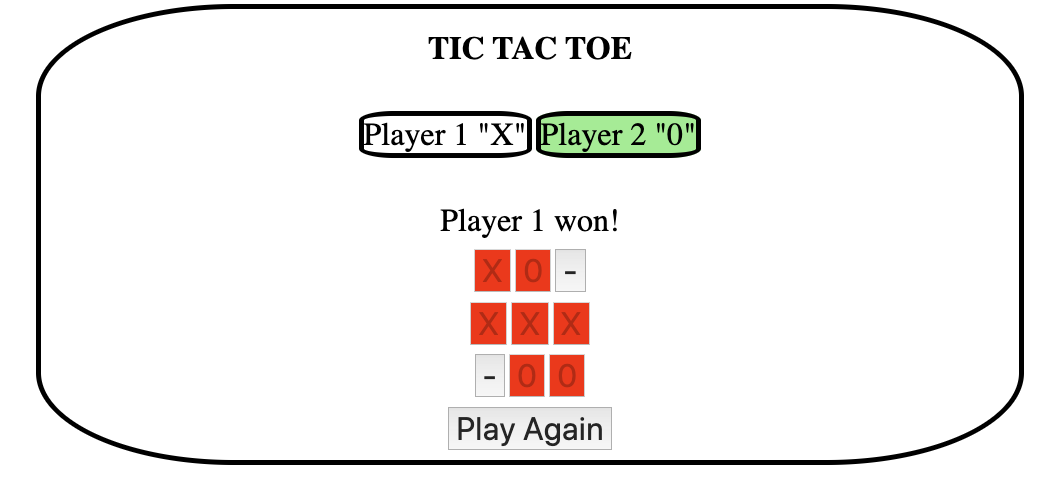
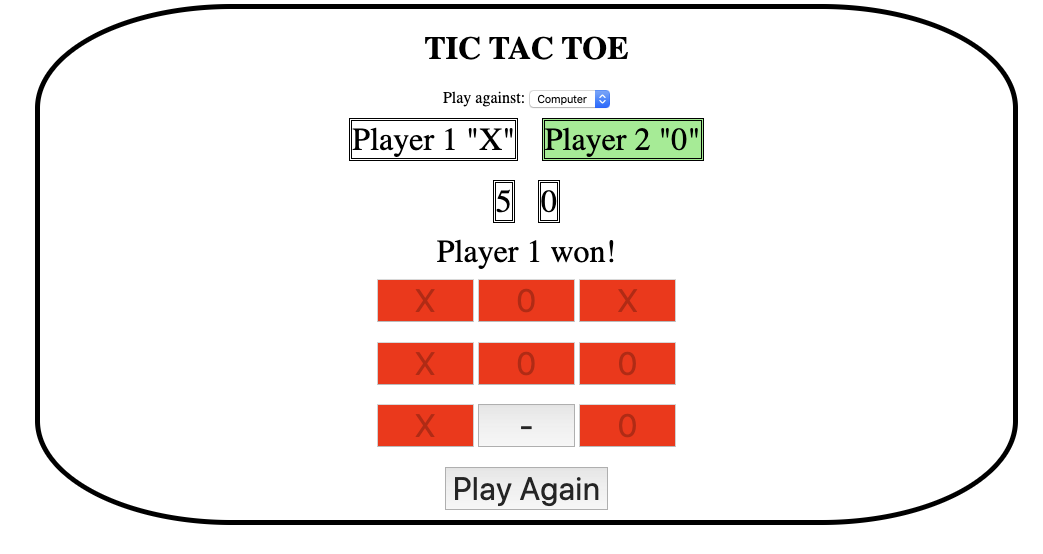
now added an artifical computer player also

diff --git a/tictactoe.js b/tictactoe.js
@@ -4,16 +4,18 @@ var gameGridArray = ["-","-","-","-","-","-","-","-","-"];
 var drawMessage = "It was a draw!";
 var playerOneWinMessage = "Player 1 won!";
 var playerTwoWinMessage = "Player 2 won!";
-counter = 0;
-p1ScoreCounter = 0;
-p2ScoreCounter = 0;
+
+var p1ScoreCounter = 0;
+var p2ScoreCounter = 0;
+var computerPlayer = false;
+
+var whichOpponent = ['Human', "Computer"];
 
 // string to compare who the winner is
 var answerX = 'XXX';
 var answer0 = '000';
 
 var arrayInsertIdxPosition = null;
-
 
 // 2. obtain all elements in the html page
 //var boxElements = document.querySelectorAll("div");
@@ -27,14 +29,36 @@ var boxElements = document.querySelectorAll('.button');
 var winningApplause = document.querySelector(".applause"); 
 var player1ScoreCounter = document.querySelector(".player1ScoreCounter")
 var player2ScoreCounter = document.querySelector(".player2ScoreCounter")
+//  used for either selecting a human or computer player
+var chooseOpponentDropDownList = document.querySelector(".chooseOpponent")
+var humanPlayer = document.querySelector(".humanPlayer")
+var computerPlayer = document.querySelector(".computerPlayer")
+
+
+
 
 // 3. set the UI starting conditions
 player1.style.backgroundColor = "lightgreen";
 resetButton.disabled = true;
+var whichPlayerCounter = 0;
 
 // 4. Declare the functions used
-var handleClick = function (event) {
 
+// checks for it there has been a drop down list change
+var handleComputerPlayer = function (event) {
+    if (event.target.selectedIndex == 1) {
+        computerPlayer = true;
+        console.log(computerPlayer);
+    } 
+    else {
+        computerPlayer = false;
+    }
+}
+
+
+
+var handleClick = function (event) {
+    console.log(event);
     //event.target.style.backgroundColor = 'red';
     event.target.classList.toggle('red');
     event.target.disabled = true;
@@ -50,19 +74,37 @@ var handleClick = function (event) {
         player1.style.backgroundColor = "white";
         player2.style.backgroundColor = "lightgreen";
 
+        updateGameGridArray(arrayInsertIdxPosition,charToInsert);
+        if (computerPlayer ===true) {
+            obtainRemainingPositions(); 
+        }
+    
     } else {
         var charToInsert = event.target.textContent = "0"
         player2.style.backgroundColor = "white";
         player1.style.backgroundColor = "lightgreen";
-    }
-    
-    // call the below function to update the master array in where the player has inputted their choice
-    updateGameGridArray(arrayInsertIdxPosition, charToInsert)
 
-    // if items clicked to RED is the same as # of elements. i.e 9...it means it was a draw.
+        updateGameGridArray(arrayInsertIdxPosition,charToInsert);
+
+    }
+}
+
+
+    // call the below function to update the master array in where the player has inputted their choice
+// var updateGameGridArray = function (arrayInsertIdxPosition, charToInsert) {
+
+
+// }
+
+var updateGameGridArray = function(arrayInsertIdxPosition, charToInsert) {
+    // insert in the array the index position and the players character (X or 0)
+    gameGridArray[arrayInsertIdxPosition] = charToInsert;
+
+        // if items clicked to RED is the same as # of elements. i.e 9...it means it was a draw.
     // Then make the board all green.
     if ((document.querySelectorAll('.red').length) === boxElements.length) {
         for (var i = 0; i < boxElements.length; i++) {
+            boxElements[i].classList.toggle("green");
             boxElements[i].classList.toggle("green");
 
             // display the DRAW message. Disable the event listener preventing the user from changing board game
@@ -77,18 +119,13 @@ var handleClick = function (event) {
 
     // call the below function to slice/determine the game grid array into its various winning combinations
     populateDecisionArrays();
-}
-
-var updateGameGridArray = function(arrayInsertIdxPosition, charToInsert) {
-    // insert in the array the index position and the players character (X or 0)
-    gameGridArray[arrayInsertIdxPosition] = charToInsert;
     return;
 }
 
 var isPlayerOneTurn = function() {
-    counter = counter +1;
-    
-    if (counter % 2 === 0) {
+    whichPlayerCounter = whichPlayerCounter +1;
+    console.log(`Line 100: ${whichPlayerCounter}`)
+    if (whichPlayerCounter % 2 === 0) {
         return false;
     } else {
         return true;
@@ -126,6 +163,7 @@ var populateDecisionArrays = function() {
     checkWin(tempd1);
     checkWin(tempd2);
 
+
 }
 
 // this function disables the handleClick event listener when player 1, 2 or a draw occurs.
@@ -153,8 +191,10 @@ var checkWin = function (potentialWinner) {
         // play winner
         winningApplause.play();
         // update the player 1 score counter
-        
         player1ScoreCounter.textContent = Number(player1ScoreCounter.textContent) + 1;
+
+        // update back to player 1 to start. Remove this if you want alternating player starts
+        whichPlayerCounter = 0;
 
     } else if (potentialWinner === answer0) {
         // display player 2 win message
@@ -169,8 +209,70 @@ var checkWin = function (potentialWinner) {
 
         // update the player 1 score counter
         player2ScoreCounter.textContent = Number(player2ScoreCounter.textContent) + 1;
+        // update back to player 1 to start. Remove this if you want alternating player starts
+        whichPlayerCounter = 0;
     }
 }
+
+
+
+// When a computer plays, this function determines where the '-' characters are in the mainGridArray.
+// If a '-' is present, it means a computer can eventually place a 0 in one of these positions
+var obtainRemainingPositions = function() {
+
+    var startIndex = 0;
+    var availableIndexPosittions = ''
+    
+    while (true) {
+        // while true, find the hyphens via indexOf(). If one is found, take it's index position and add 1 to recommence
+        // the search
+        var foundIndex = gameGridArray.indexOf('-',startIndex);
+        if (foundIndex !=-1) {
+            availableIndexPosittions = availableIndexPosittions+foundIndex;
+        }
+        if (foundIndex ==-1) {
+            break;
+        }
+        // ensure to increment the start the next search of indexof() after the previous '-' was found
+        startIndex = foundIndex + 1;
+    }
+    console.log(availableIndexPosittions);
+    
+    // From the remaining index positions open, the random index position # to then insert a '0' in is
+    // the minus 1 is to cater for ZERO based counting
+    var randomIndexPositionToInsertAZero = getRandomIndexPosition(0, availableIndexPosittions.length-1   );
+    //console.log(`From the remaining index positions open, the random # to then insert a 0 in is ${randomIndexPositionToInsertAZero}`);
+    //console.log(`This means you insert a ZERO at the following gameGridArray index position ${availableIndexPosittions[randomIndexPositionToInsertAZero]}`);
+
+    // take the random index position that was calculated and used the string's value number to update the grid array
+    updateGameGridArray(availableIndexPosittions[randomIndexPositionToInsertAZero], "0")
+    //debugger;
+    for (var i = 0; i < boxElements.length; i++) {
+        if (boxElements[i].getAttribute("data-ArrayIdx") == availableIndexPosittions[randomIndexPositionToInsertAZero]) {
+            console.log(boxElements[i].getAttribute("data-ArrayIdx"));
+            boxElements[i].textContent = "0"
+            boxElements[i].classList.toggle('red');
+            boxElements[i].disabled = true;
+            whichPlayerCounter = 0; //ensure the turn goes back to player1. i.e so an 'X' can  be placed
+            break;
+        }
+    }
+    // now we'll check the arrays to calculate all winning combinations and then invoke checkWin() to determine if a winner
+    populateDecisionArrays()
+}
+
+// This function returns a random number between 0 and the length-1 of the availble position open.
+var getRandomIndexPosition = function (min, max) {
+    min = Math.ceil(min);
+    max = Math.floor(max);
+    return Math.floor(Math.random() * (max - min + 1)) + min; //The maximum is inclusive and the minimum is inclusive 
+  }
+
+
+var resetButtonFunctionality = function(boolean) {
+    resetButton.disabled = boolean;
+}
+
 
 
 var handleResetGame = function (event) {
@@ -187,7 +289,9 @@ var handleResetGame = function (event) {
         boxElements[i].addEventListener('click', handleClick);
     }
     // reset the player counter, and reset message to blank, player colours and disable RESET button       
-    counter = 0;
+    whichPlayercounter = 0;
+    console.log(`Line 259: ${whichPlayerCounter}`)
+    //console.log(whichPlayerCounter);
     winOrDrawMessage.textContent = "";
     player1.style.backgroundColor = "lightgreen";
     player2.style.backgroundColor = "white";
@@ -196,9 +300,6 @@ var handleResetGame = function (event) {
 
 }
 
-var resetButtonFunctionality = function(boolean) {
-    resetButton.disabled = boolean;
-}
 
 //add an event click listener for all div elements on the game board
 for (var i = 0; i < boxElements.length; i++) {
@@ -208,3 +309,6 @@ for (var i = 0; i < boxElements.length; i++) {
 
 // add an eveny click listens to reset the game if player wins or a draw
 resetButton.addEventListener('click', handleResetGame);
+
+// this is an event listener for when a user would like to paly the computer
+document.querySelector(".chooseOpponent").addEventListener("change", handleComputerPlayer);

diff --git a/index.html b/index.html
@@ -13,10 +13,20 @@
             <h1>TIC TAC TOE</h1>
         </header>
 
+        <section class="playerChoice">
+            <text>Play against: </text>
+            <select class="chooseOpponent">
+                <option class="humanPlayer" value="22" selected>Human</option>
+                <option class="computerPlayer" value="33">Computer</option>
+            </select>
+        </section>
+
         <section class = players>
             <text class="player1" data-Player2Char="X">Player 1 "X"</text>
             <text class="player2" data-Player2Char="0">Player 2 "0"</text>
         </section>
+
+
 
         <section class = winCounters>
             <text class="player1ScoreCounter">0</text>
@@ -47,22 +57,24 @@
 
 
         <section class="buttonClass">
-            <button class="button" id="zero" data-arrayIdx="0">-</button>
-            <button class="button" id="one" data-arrayIdx="1">-</button>
-            <button class="button" id="two" data-arrayIdx="2">-</button>
+            <button class="button" id="0" data-arrayIdx="0">-</button>
+            <button class="button" id="1" data-arrayIdx="1">-</button>
+            <button class="button" id="2" data-arrayIdx="2">-</button>
         </section>
 
         <section class="buttonClass">
-            <button class="button" id="three" data-arrayIdx="3">-</button>
-            <button class="button" id="four" data-arrayIdx="4">-</button>
-            <button class="button" id="five" data-arrayIdx="5">-</button>
+            <button class="button" id="3" data-arrayIdx="3">-</button>
+            <button class="button" id="4" data-arrayIdx="4">-</button>
+            <button class="button" id="5" data-arrayIdx="5">-</button>
         </section>
 
         <section class="buttonClass">
-            <button class="button" id="six" data-arrayIdx="6">-</button>
-            <button class="button" id="seven" data-arrayIdx="7">-</button>
-            <button class="button" id="eight" data-arrayIdx="8">-</button>
+            <button class="button" id="6" data-arrayIdx="6">-</button>
+            <button class="button" id="7" data-arrayIdx="7">-</button>
+            <button class="button" id="8" data-arrayIdx="8">-</button>
         </section>
+
+
 
 
         <section>

diff --git a/tictactoe.css b/tictactoe.css
@@ -28,6 +28,7 @@ section{
 
 }
 
+
 .players text {
     display: inline-block;
     margin: 1% 1% 1% 1%;
@@ -55,9 +56,18 @@ section{
     font-size: 2rem;
 }
 
-button {
+.button {
     font-size: 2rem;
     cursor: pointer;
+    width: 10%;
+}
+
+button {
+    margin-top: 1%;
+    margin-bottom: 1%;
+    font-size: 2rem;
+    cursor: pointer;
+
 }
 .red {
     background-color: red;

diff --git a/README.md b/README.md
@@ -1,6 +1,7 @@
 ## Table of contents
 * [General info](#general-info)
 * [Game link](#gamelink)
+* [Game Extensions](#game-extensions)
 * [Screenshots](#screenshots)
 * [In-depth Features of the game](#in-depth-features-of-the-game)
 * [Technologies Used](#technologies-used)
@@ -19,6 +20,12 @@ This project is to demonstrate that the following requirements are met in develo
 * Use Javascript for DOM manipulation
 * Deploy your game online, where the rest of the world can access it
 * Use semantic markup for HTML and CSS (adhere to best practices)
+
+## Game Extensions
+The following features are also present in the updated game.
+* It keeps score on which player wins
+* It plays a sound when a player wins.
+* The game has an in-built computer player to play against.
 
 ## Game Link
 * The game can be linked here
@@ -46,6 +53,7 @@ This project is to demonstrate that the following requirements are met in develo
 * Understood the rules of the game to determine how a winner is determined. i.e. It checks 8 combinations for a winner.
 * Re-used the pin-pad functionality from the BANK ATM exercise as part of the solution.
 * Spent a lot of time in determining how best to reset the game without doing a "reload". There doesn't seem to be an easy way.
+* Adding the computer player component required splitting up the large click handler function to accomodate the logic.  
 
 
 ## Technologies
